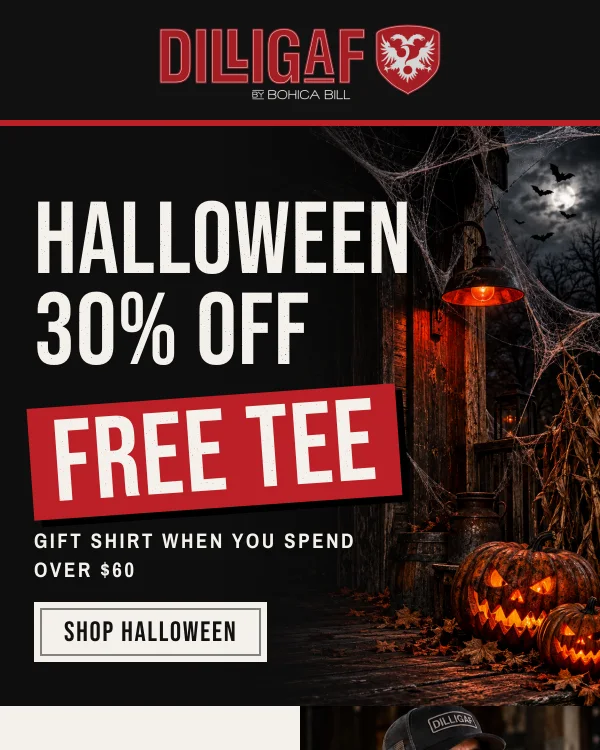
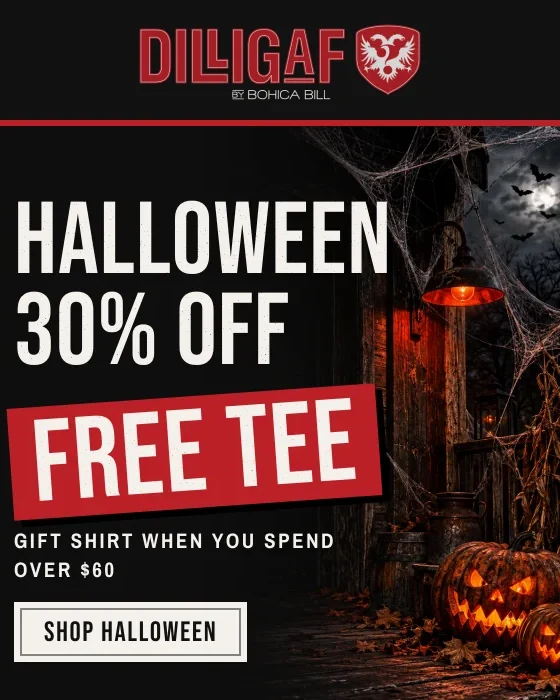
Round 2: the 3.95x line names the Full Send sale, DILLIGAF's 3.7x states its window, and its cover stops at the hero

diff --git a/lib/content/site-content.ts b/lib/content/site-content.ts
@@ -1328,7 +1328,7 @@ export const caseStudies: CaseStudyContent[] = [
       "We wrote and designed five flows in the brand's own red, black and attitude, led by a welcome series that walks a new subscriber through the sayings, the hoodies and the women's Gia line. Then a campaign calendar on top, starting with Halloween: 30% off and a free tee with bigger orders.",
     deliverables: ["Five Klaviyo flows", "Welcome series", "Email design system", "Halloween campaign", "Monthly reports"],
     outcomes: [
-      "3.7× email revenue in the first 30 days of the flows",
+      "3.7× email revenue in the 30 days to November 11",
       "Store conversion up from 1.45% to 2.28%",
       "Store sales up 121% on the same weeks of 2025",
       "23.4% open rate on the Halloween email",
@@ -1394,8 +1394,8 @@ export const caseStudies: CaseStudyContent[] = [
     coverImage: {
       src: "/images/project/dilligaf/cover.webp",
       alt: "Top of the DILLIGAF Halloween email: 30% off and a free tee",
-      width: 600,
-      height: 750,
+      width: 560,
+      height: 700,
       position: "top center",
     },
     logo: {

diff --git a/lib/content/results.ts b/lib/content/results.ts
@@ -12,7 +12,7 @@ const dilligaf = { client: "DILLIGAF", href: getCaseStudyPath("dilligaf") };
 
 export const homeResults: ResultItem[] = [
   { value: "3.7×", label: "Monthly email revenue, July to October 2026", ...ironBrothers },
-  { value: "3.95×", label: "Return on ad spend from a five-day flash sale on Meta", ...ironBrothers },
+  { value: "3.95×", label: "Return on ad spend from the Full Send flash sale on Meta", ...ironBrothers },
   { value: "+57%", label: "Store conversion rate after we built their email program", ...dilligaf },
 ];
 
